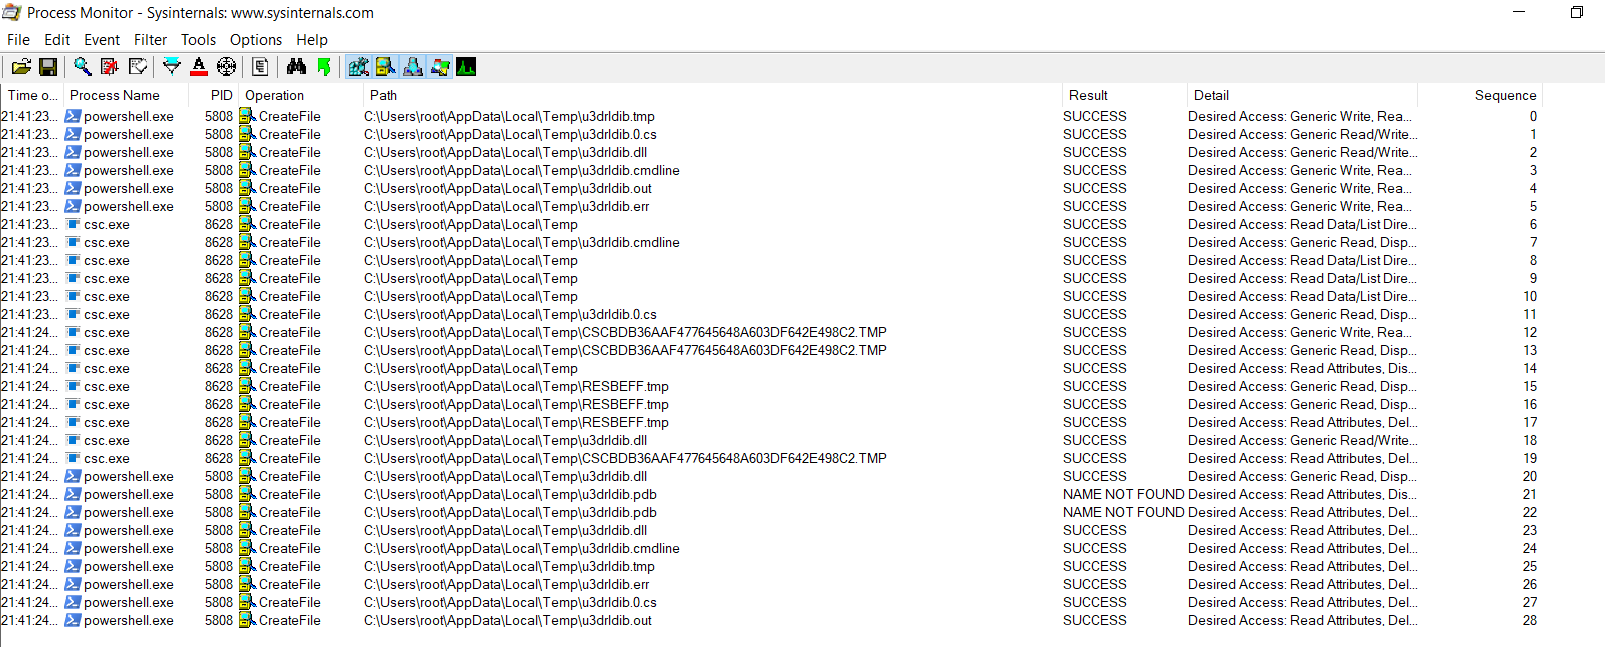
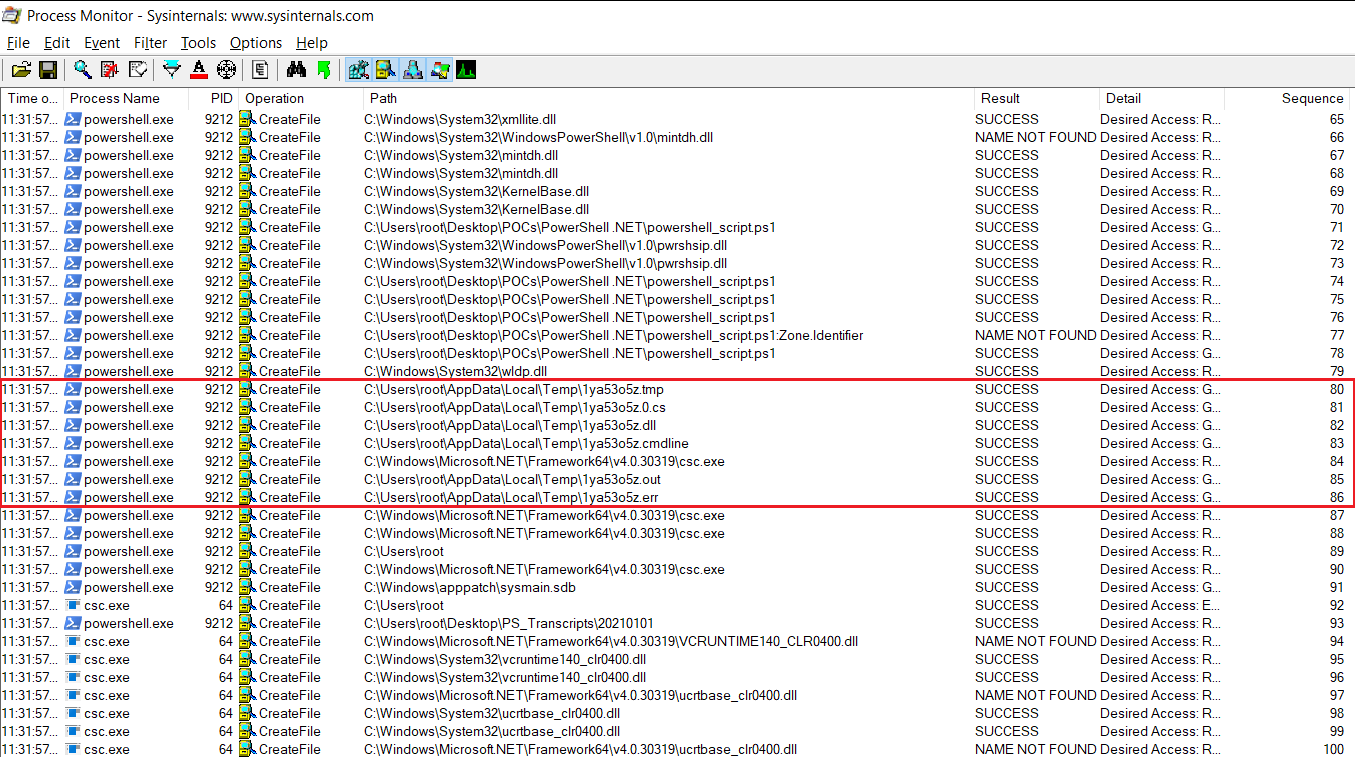
update powershelldn

diff --git a/vuln/powershelldn.html b/vuln/powershelldn.html
@@ -61,9 +61,9 @@
                     <div class="flex-grow-1">
                         <h3 class="mb-0">Introduction</h3>
                         <p>
-                            After getting several alerts from FireEye regarding suspicious .dll file coming from the process csc.exe, I decided dig into that subject. After doing an Enterprise Search in FireEye for the process name "csc.exe", I've found that PowerShell.exe is often the parent process of csc.exe. According to some researches, by dynamically compiling a C# code through PowerShell, it can also be used to evade detection.  For instance, compiling malware this way can evade Symantec’s “reputation 1” detection of new and untrusted softwares. It also has been seen that it can evade detection from Device Guard since Code Integrity is not performed. <br>
+                            After getting several alerts from FireEye regarding suspicious .dll file coming from the process csc.exe, I decided dig into that subject. When I was doing some Enterprise Searches in FireEye for the process name "csc.exe", I've found that PowerShell.exe is often the parent process of csc.exe. According to some researches, by dynamically compiling a C# code through PowerShell, it can also be used to evade detection.  For instance, compiling malware this way can evade Symantec’s “reputation 1” detection of new and untrusted softwares. It also has been seen that it can evade detection from Device Guard since Code Integrity is not performed. <br>
                             <br>
-                            This article is to understand how can we exploit that vulnerability and to discover FireEye rule logic for when csc.exe use is “normal” and when it is an attack.
+                            This article is to understand how can we exploit that vulnerability and to discover FireEye rule logic when csc.exe use is “normal” and when it is an attack.
                         </p>
                     </div>
                 </div>
@@ -73,7 +73,7 @@
                     <div class="flex-grow-1">
                         <h3 class="mb-0">What is csc.exe ?</h3>
                         <p>
-                            The process <strong>Csc.exe</strong> is a C# compiler and is part of Microsoft .NET Framework. A compiler is used to translate a programming language (high-level language understood by human) into machine code (machine code or assembly). We can invoke the C# compiler by typing csc.exe at a command prompt. <br>
+                            The process <strong>csc.exe</strong> is a C# compiler and is part of Microsoft .NET Framework. A compiler is used to translate a programming language (high-level language understood by human) into low-level language (machine code or assembly). We can invoke the C# compiler by typing csc.exe at a command prompt. <br>
                             The default location of csc.exe is "C:\Windows\Microsoft.NET\Framework\<<i>Version</i>>", the version of the framework for Microsoft.NET might vary. To know the location of csc.exe, you can type this command in the windows command line: 
                             <div class="squarebox">dir /s %WINDIR%\csc.exe</div>
                             <img src="img/PowerShell .NET/csclocation.png" class="img-fluid" width="400">
@@ -87,9 +87,10 @@
                     <div class="flex-grow-1">
                         <h3 class="mb-0">Compiling C# with PowerShell</h3>
                         <p>
-                            In PowerShell, when the cmdlet “<strong>Add-type</strong>>” is executed, it will run the csc.exe to compile the C# code into an machine language. A temporary file <i>XXXX.cmdline</i> is created in AppData\local\temp and this file will be passed as argument to the C# compiler csc.exe to reate XXXX.0.cs in AppData\local\temp. <br>
+                            In PowerShell, when the cmdlet “<strong>Add-type</strong>” is executed, it will run the csc.exe to compile the C# code into a machine language. A temporary file <i>XXXX.cmdline</i> is created in AppData\local\temp and this file will be passed as argument to the C# compiler csc.exe to create XXXX.0.cs in AppData\local\temp. <br>
+                            The Add-Type cmdlet define a Microsoft .NET Core class in the PowerShell session. With that cmdlet, it is possible to instantiate .NET Core object, so C# Object can be created as well with that cmdlet. By compiling dynamically C# with PowerShell, it has been demontrated that it can evade detection from Device Guard since Code Integrity is not performed.
                             <br>
-                            <strong>Device Guard</strong> is a functionality developed by Microsoft, available only on <i>Windows 10 Enterprise</i>. It allows to lock any device to only run signed and allowed applications and scripts. Device Guard uses a technology called "<strong>Code Integrity</strong>” which will verify the integrity of the Windows kernel before running any script. Therefore, it become harder to run a malicious code because it might be blocked by Device Guard. The Code Integrity is based on the virtualization and when the system is booting, Hyper-V Code Integrity verifies that every script and driver running on the system are signed. <br>
+                            <strong>Device Guard</strong> is a functionality developed by Microsoft, available only on <i>Windows 10 Enterprise</i>. It allows to lock any device to only run signed and allowed applications and scripts. Device Guard uses a technology called "<strong>Code Integrity</strong>” which will verify the integrity of the Windows kernel before running any script. Therefore, it become harder to run a malicious code because it might be blocked by Device Guard. The Code Integrity is based on the virtualization and when the system is booting, Hyper-V Code Integrity verifies that every script and driver running at boot on the system are signed. <br>
                             However, by compiling C# with PowerShell, the Code Integrity checks are not performed on any code that compiles C# dynamically with csc.exe. <br>
                             <br>
                             <u>What does dynamically compile means?</u><br>
@@ -104,24 +105,29 @@
                         <h3 class="mb-0">POC: Analyzing PowerShell calling csc.exe</h3>
                         <p>
                             In this part, we are going to create a PowerShell script with Add-Type cmlet to compile a C# code. After executing the cmdlet Add-Type, PowerShell will run csc.exe. <br>
-                            First, let’s create a #C code to create a .NET application.
+                            First, let’s create a #C code.
 
                             <img src="img/PowerShell .NET/program.png" class="img-fluid" width="500">
 
                             This C# code will simply display "Hello World !". <br>
-                            Let's create a PowerShell script calling that program with the cmdlet Add-Type to compile dynamically this code.
+                            Let's create a PowerShell script calling that csc.exe with the cmdlet Add-Type to compile dynamically this C# code.
 
                             <img src="img/PowerShell .NET/powershell.png" class="img-fluid" width="500">
 
-                            To view the file creation and all others file modification, let’s use “procmon”. Procmon (process monitor) is a troubleshooting too from Windows Sysinternals that display the file and registry that applications access in real-time.
+                            Since we are using inline source code, TypeDefinition parameter specify that the code source is stored in the $code variable. <br>
+                            :: is used to call a static member of the class. <br>
+                            A static function is a member function of a class that can be called even when an object of the class is not initialized. <br>
+                            <br>
+
+                            To view the file creation and all others file modification, let’s use “procmon”. Procmon (process monitor) is a troubleshooting tool from Windows Sysinternals that display the file and registry that applications access in real-time.
 
                             <img src="img/PowerShell .NET/procmon.png" class="img-fluid" width="500">
 
-                            Using Procmon, we will filter on the program PowerShell.exe, and it will record every file created by the program, or track the activity of that process. Press <i>crtl+L</i> or navigate to "<i>Filter</i>" and click on "<i>Filter...</i>". 
+                            Using Procmon, we will filter on the program PowerShell.exe, and will record every file created by the process, or track the activity of that process. To open the filter window, press <i>crtl+L</i> or navigate to "<i>Filter</i>" and click on "<i>Filter...</i>". 
 
                             <img src="img/PowerShell .NET/procmon_filter.png" class="img-fluid" width="500">
 
-                            Make sure that procmon is capturing the event, by clicking on the “Capturing” icon.
+                            Make sure that procmon is capturing the event, by checking that there is not a cross on the “Capturing” icon.
 
                             <img src="img/PowerShell .NET/capture.png" class="img-fluid" width="500">
 
@@ -132,9 +138,20 @@
 
                             <img src="img/PowerShell .NET/filecreated.png" class="img-fluid" width="900">
 
-                        Before PowerShell is calling "csc.exe", there are some files created in the folder C:\Users\[<i>USERNAME</i>]\AppData\Local\Temp. 6 files are created, a .tmp, .0.cs, .dll, .cmdline, .out and .err files.
+                            Before PowerShell is calling "csc.exe", there are some files created in the folder C:\Users\[<i>USERNAME</i>]\AppData\Local\Temp. 6 files are created, a .tmp, .0.cs, .dll, .cmdline, .out and .err files.
+                            Checking those files in the path C:\Users\[<i>USERNAME</i>]\AppData\Local\Temp, it does not exist anymore, it means that those files are deleted after that csc.exe has run.
 
+                            <img src="img/PowerShell .NET/appdata.png" class="img-fluid" width="500">
 
+                            PowerShell is calling csc.exe after creating the .tmp, .0.cs, .dll and .cmdline file. 
+
+                            <img src="img/PowerShell .NET/cscactivity.png" class="img-fluid" width="500">
+
+                            When Add-Type cmdlet is executed, the C# compiler (csc.exe) is invoked by PowerShell to compile this class definition into an assembly (.dll) with the .NET type to be used by the PS script. This .dll file is created in the folder C:\Users\[USERNAME]\AppData\Local\Temp. Another temporary file is created, with the extension .cmdline, this file is passed as argument to csc.exe and contains direction to compile a C# program which generate a .0.cs file.
+                            The .0.cs file contains the C# code classes, namespace, function passed in argument to the cmdlet Add-Type.
+                            In that case, .dll files provide some information to the Common Language Runtime including the language because the Common Language Runtime is the program managing the execution of the application. The programming languages such as Visual Basic, Visual C++ and C# compile their code and translate it to a Common Intermediate Language executable by the CLR. <br>
+                            <br>
+                            <strong>TO BE CONTINUED...</strong>
 
                         </p>
                         <br>
